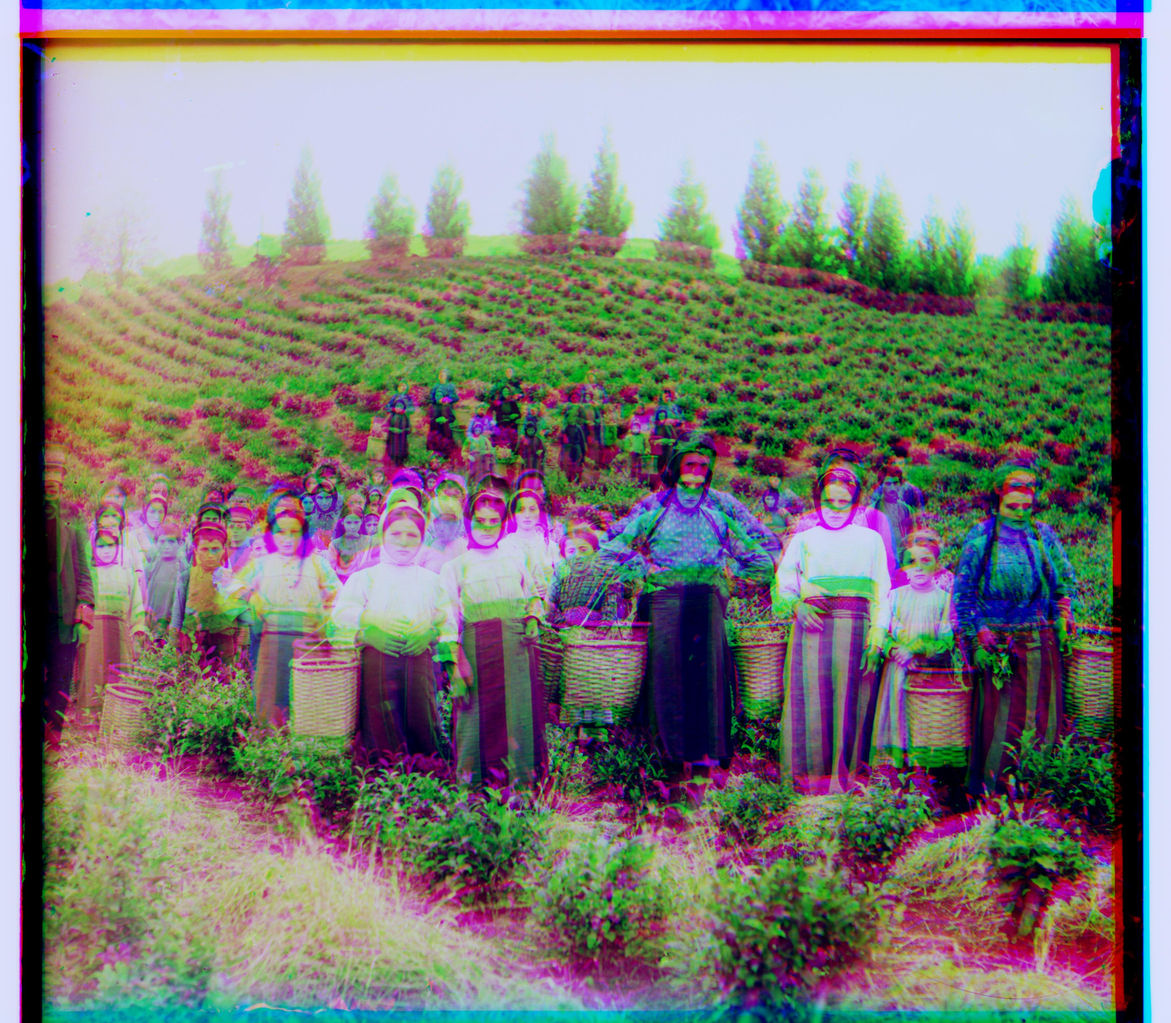
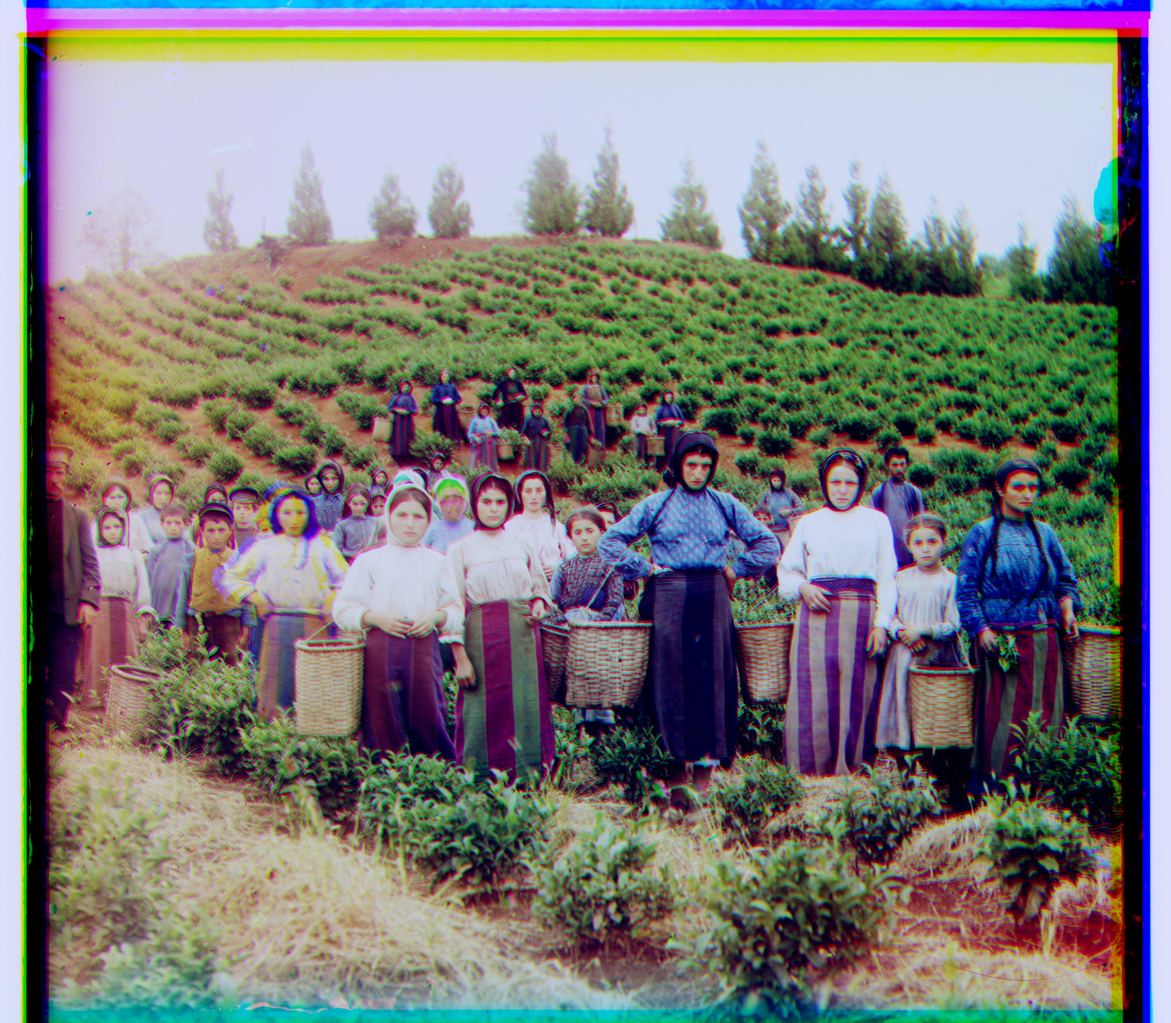
added edge detection

diff --git a/1/index.html b/1/index.html
@@ -198,18 +198,111 @@ def find_best_shift_pyramid(channel, reference, max_shift=15, pyramid_levels=4, 
             </p>
         </div>
 
+        <div class="section"></div>
+            <h3>B&W Edge Detection</h3>
+            <div class="code-container">
+                <code>
+def process_image(image_path):
+    im = skio.imread(image_path)
+    im = sk.img_as_float(im)
+
+    # Divide the image into color channels
+    height = np.floor(im.shape[0] / 3.0).astype(int)
+    b = im[:height]
+    g = im[height: 2*height]
+    r = im[2*height: 3*height]
+
+    # Normalize brightness
+    g_normalized = normalize_brightness(g, b)
+    r_normalized = normalize_brightness(r, b)
+
+    # Apply edge detection
+    b_edges = detect_edges(b)
+    g_edges = detect_edges(g_normalized)
+    r_edges = detect_edges(r_normalized)
+
+    # Find the best shifts after normalization and edge detection using pyramid method
+    best_dx_g, best_dy_g = find_best_shift_pyramid(g_edges, b_edges, max_shift=15, pyramid_levels=4)
+    best_dx_r, best_dy_r = find_best_shift_pyramid(r_edges, b_edges, max_shift=15, pyramid_levels=4)
+
+    # Align the channels
+    aligned_g = np.roll(g_normalized, shift=(best_dy_g, best_dx_g), axis=(0, 1))
+    aligned_r = np.roll(r_normalized, shift=(best_dy_r, best_dx_r), axis=(0, 1))
+
+    # Stack the channels in RGB order (flip from BGR)
+    color_image = np.stack((aligned_r, aligned_g, b), axis=-1)
+
+    return color_image
+
+def detect_edges(image):
+    # Use Canny edge detection
+    edges = skfeat.canny(image, sigma=1)
+    return edges.astype(float)
+
+def find_best_shift_pyramid(channel, reference, max_shift=15, pyramid_levels=4, sigma=1):
+    channel_pyramid = gaussian_pyramid(channel, pyramid_levels, sigma)
+    reference_pyramid = gaussian_pyramid(reference, pyramid_levels, sigma)
+
+    best_dx, best_dy = 0, 0
+
+    for level in range(pyramid_levels - 1, -1, -1):
+        best_dx *= 2
+        best_dy *= 2
+        
+        channel_level = np.roll(channel_pyramid[level], shift=(best_dy, best_dx), axis=(0, 1))
+        reference_level = reference_pyramid[level]
+        
+        dx, dy = find_best_shift(channel_level, reference_level, max_shift=max_shift)
+        
+        best_dx += dx
+        best_dy += dy
+    print(best_dx, best_dy)
+    return best_dx, best_dy
+                </code>
+            </div>
+            <p>Some images such as the Emir one were really struggling to align, so for my B&W I decided to use edge detection to align them.
+                While the code is abstract, I did look at how it works at under the hood. A Canny Edge detection first starts off with a Gaussian Smoothing,
+                which allows us to reduce noise in the image (outliers that might be interpreted as edges). Then we use gradients of pixels relative to the neighboring
+                pixels to determine the edges as it tells us how sharp pixel color/brightness change, indicating an edge. The code is updated to perform the alignment relative to the edges with
+                still usign image pyramid scheme.
+            </p>
+
+
         <h2>Results</h2>
-        <p>Since I didn't do the B&W, the more complex images aren't as aligned (there is also some color enhancing that could be done). I did look into it a bit and found that edge detection could be something
-            very useful to help align the more complex images. However, most of the images came out to be really good!
+        <p> I have also attatched all the images with their corresponding best green filter shift (with respect to blue) and red filter shift (with respect to blue).
         </p>
 
         <div class="section">
             <h3>Image Gallery</h3>
             <div class="image-container">
-                <img src="./output/aligned_lady.jpg" alt="Aligned Lady">
-                <img src="./output/aligned_melons.jpg" alt="Aligned Apple">
-                <img src="./output/aligned_sculpture.jpg" alt="Aligned Landscape">
-                <!-- Add more images as needed -->
+                <img src="./output/aligned_emir.jpg">
+                <figcaption>(23, 49) Green & (40, 107) Red</figcaption>
+                <img src="./output/aligned_monastery.jpg">
+                <figcaption>(2, -3) Green & (2, 3) Red</figcaption>
+                <img src="./output/aligned_church.jpg">
+                <figcaption>(4, 25) Green & (-4, 58) Red</figcaption>
+                <img src="./output/aligned_three_generations.jpg">
+                <figcaption>(11, 56) Green & (7, 111) Red</figcaption>
+                <img src="./output/aligned_melons.jpg">
+                <figcaption>(9, 89) Green & (11, 182) Red</figcaption>
+                <img src="./output/aligned_onion_church.jpg">
+                <figcaption>(24, 52) Green & (34, 107) Red</figcaption>
+                <img src="./output/aligned_train.jpg">
+                <figcaption>(2, 48) Green & (29, 85) Red</figcaption>
+                <img src="./output/aligned_tobolsk.jpg">
+                <figcaption>(2, 3) Green & (3, 6) Red</figcaption>
+                <img src="./output/aligned_icon.jpg">
+                <figcaption>(16, 38) Green & (22, 90) Red</figcaption>
+                <img src="./output/aligned_cathedral.jpg">
+                <figcaption>(2, 5) Green & (3, 12) Red</figcaption>
+                <img src="./output/aligned_self_portrait.jpg">
+                <figcaption>(29, 77) Green & (37, 175) Red</figcaption>
+                <img src="./output/aligned_harvesters.jpg">
+                <figcaption>(18, 60) Green & (11, 117) Red</figcaption>
+                <img src="./output/aligned_sculpture.jpg">
+                <figcaption>(-11, 33) Green & (-27, 140) Red</figcaption>
+                <img src="./output/aligned_lady.jpg">
+                <figcaption>(10, 56) Green & (13, 120) Red</figcaption>
             </div>
         </div>
     </div>

diff --git a/1/code/main.py b/1/code/main.py
@@ -5,6 +5,7 @@ import matplotlib.pyplot as plt
 import os
 import skimage.filters as skf
 import skimage.transform as skt
+import skimage.feature as skfeat
 
 data_folder = './data'
 output_folder = './output'
@@ -23,9 +24,14 @@ def process_image(image_path):
     g_normalized = normalize_brightness(g, b)
     r_normalized = normalize_brightness(r, b)
 
-    # Find the best shifts after normalization using pyramid method
-    best_dx_g, best_dy_g = find_best_shift_pyramid(g_normalized, b, max_shift=15, pyramid_levels=4)
-    best_dx_r, best_dy_r = find_best_shift_pyramid(r_normalized, b, max_shift=15, pyramid_levels=4)
+    # Apply edge detection
+    b_edges = detect_edges(b)
+    g_edges = detect_edges(g_normalized)
+    r_edges = detect_edges(r_normalized)
+
+    # Find the best shifts after normalization and edge detection using pyramid method
+    best_dx_g, best_dy_g = find_best_shift_pyramid(g_edges, b_edges, max_shift=15, pyramid_levels=4)
+    best_dx_r, best_dy_r = find_best_shift_pyramid(r_edges, b_edges, max_shift=15, pyramid_levels=4)
 
     # Align the channels
     aligned_g = np.roll(g_normalized, shift=(best_dy_g, best_dx_g), axis=(0, 1))
@@ -35,6 +41,11 @@ def process_image(image_path):
     color_image = np.stack((aligned_r, aligned_g, b), axis=-1)
     
     return color_image
+
+def detect_edges(image):
+    # Use Canny edge detection
+    edges = skfeat.canny(image, sigma=1)
+    return edges.astype(float)
 
 def normalized_crosscorrelation(image1, image2):
     norm1 = np.linalg.norm(image1, 'fro')
@@ -104,7 +115,7 @@ def find_best_shift_pyramid(channel, reference, max_shift=15, pyramid_levels=4, 
         
         best_dx += dx
         best_dy += dy
-
+    print(best_dx, best_dy)
     return best_dx, best_dy
 
 def save_image(output_path, image):
